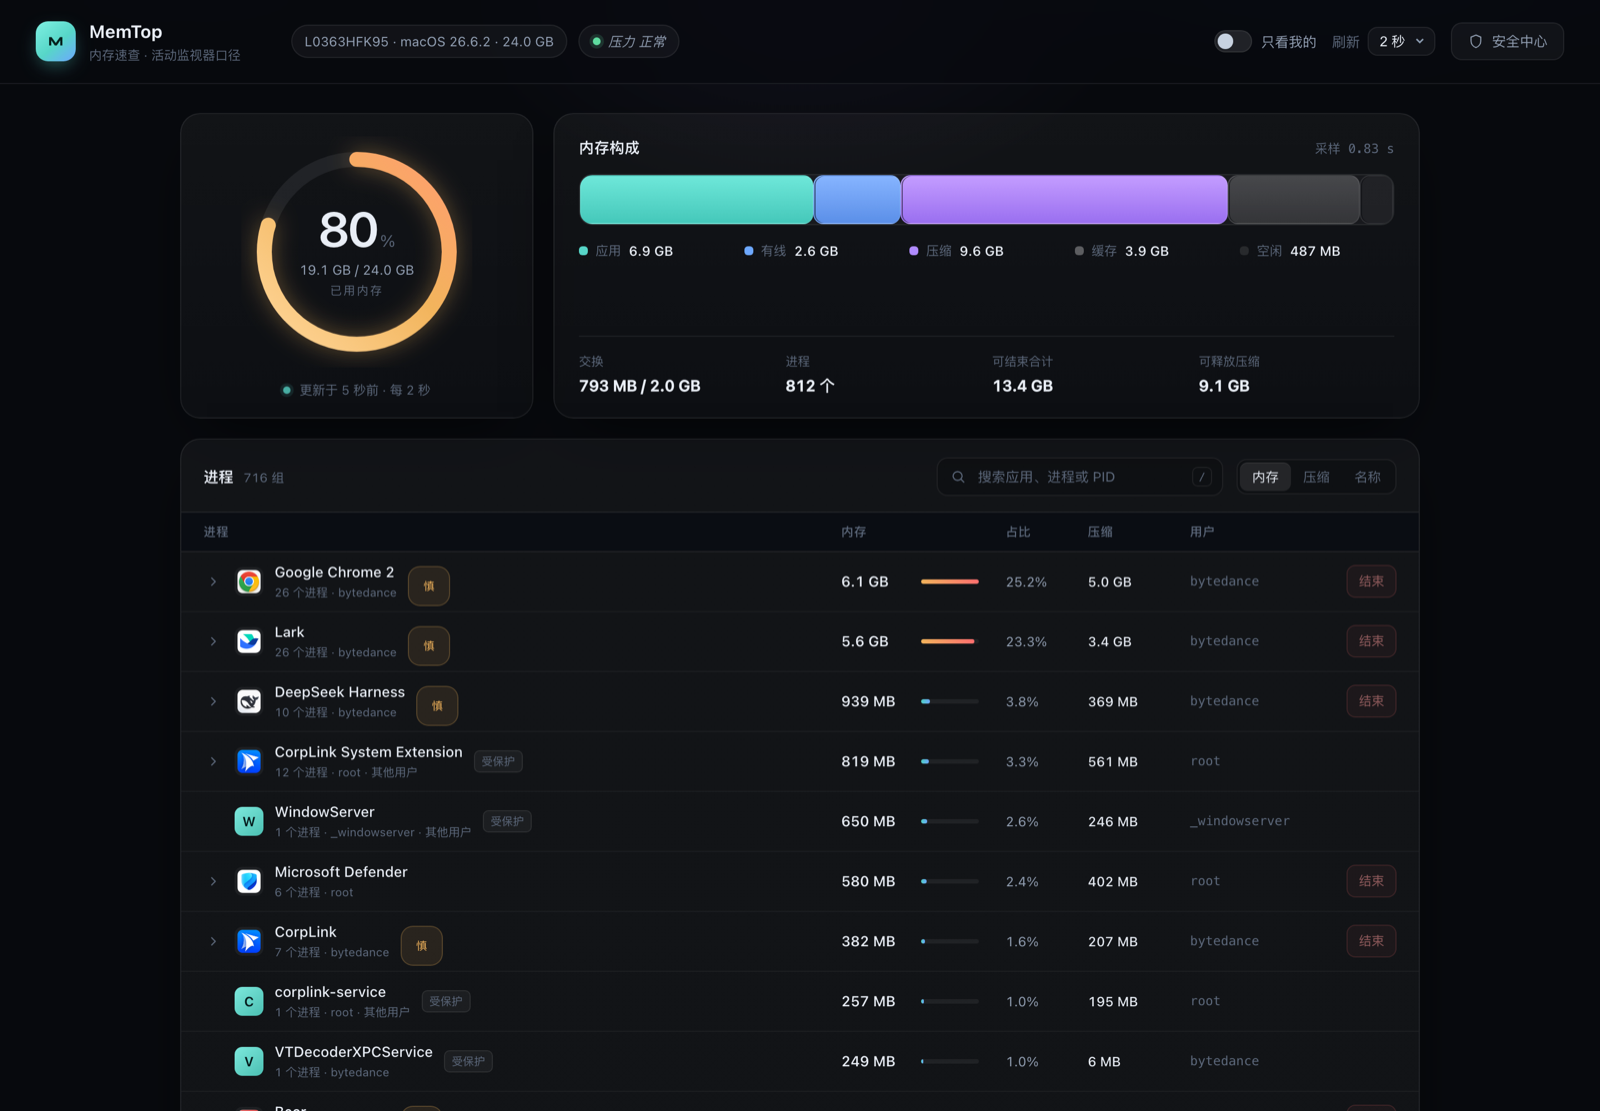
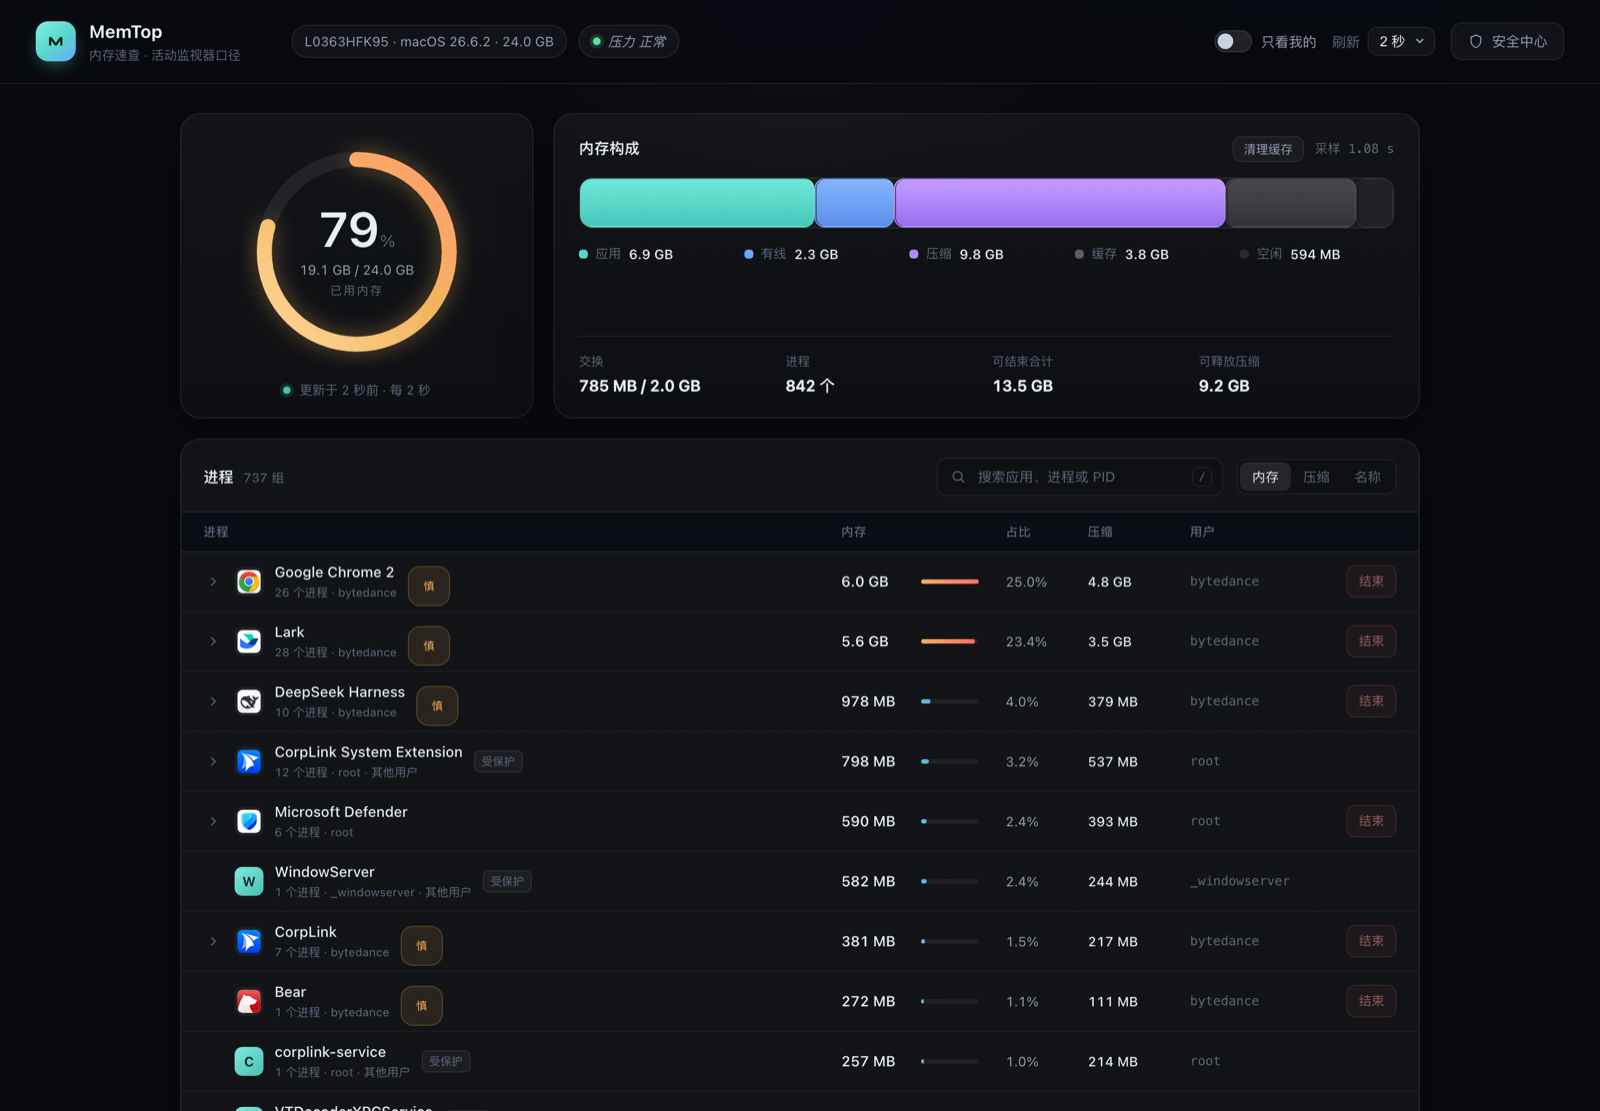
feat: 文件缓存清理（Web / 菜单栏 / CLI），系统 purge 授权后释放
明确区分缓存与压缩内存；Web 与菜单栏提供确认弹窗和前后对比，30 秒内防重复。

diff --git a/memtop-bar/main.swift b/memtop-bar/main.swift
@@ -339,7 +339,12 @@ final class PanelController: NSViewController {
         brand.spacing = 7
         brand.alignment = .centerY
 
-        let header = NSStackView(views: [brand, headerSpacer, pressure])
+        let purgeButton = MTButton("清缓存", size: 9.5, tint: MT.faint) { [weak self] in
+            self?.confirmPurge()
+        }
+        purgeButton.toolTip = "丢弃文件缓存（需要管理员授权，不影响压缩内存）"
+
+        let header = NSStackView(views: [brand, headerSpacer, purgeButton, pressure])
         header.orientation = .horizontal
         header.alignment = .centerY
         header.translatesAutoresizingMaskIntoConstraints = false
@@ -851,6 +856,38 @@ final class PanelController: NSViewController {
         }
     }
 
+    func confirmPurge() {
+        let cached = snapshot?.memory.cached ?? 0
+        alert("清理文件缓存？",
+              "当前文件缓存 \(MT.size(cached))。会调用系统 purge 丢弃文件缓存——不是压缩内存；需要管理员授权，不会结束应用，但短时间内读盘会变慢。",
+              style: .warning, confirm: "清理", destructive: false) { [weak self] in
+            self?.runPurge()
+        }
+    }
+
+    private func runPurge() {
+        let path = memtopPath
+        let before = snapshot?.memory.cached ?? 0
+        DispatchQueue.global(qos: .userInitiated).async { [weak self] in
+            let outcome = MemTopBar.runPurge()
+            let after = MemTopBar.cachedBytes(path) ?? before
+            DispatchQueue.main.async {
+                guard let self = self else { return }
+                switch outcome {
+                case .success:
+                    self.refresh(force: true)
+                    self.alert("已清理文件缓存",
+                               "缓存 \(MT.size(before)) → \(MT.size(after))，释放 ≈ \(MT.size(max(0, before - after)))。",
+                               style: .informational)
+                case .canceled:
+                    self.alert("已取消", "没有获得管理员授权，缓存未清理。", style: .informational)
+                case .failure(let msg):
+                    self.alert("清理失败", msg, style: .critical)
+                }
+            }
+        }
+    }
+
     private func toggleSortMode() {
         sortByCompressed.toggle()
         sortButton.setTitle(sortByCompressed ? "按内存" : "按压缩", tint: sortByCompressed ? MT.teal : MT.dim)
@@ -1175,6 +1212,7 @@ final class AppDelegate: NSObject, NSApplicationDelegate {
             let menu = NSMenu()
             menu.addItem(withTitle: "打开面板", action: #selector(openPanel), keyEquivalent: "").target = self
             menu.addItem(withTitle: "刷新", action: #selector(forceRefresh), keyEquivalent: "r").target = self
+            menu.addItem(withTitle: "清理文件缓存…", action: #selector(purgeCache), keyEquivalent: "").target = self
             menu.addItem(.separator())
             menu.addItem(withTitle: "退出 MemTopBar", action: #selector(quit), keyEquivalent: "q").target = self
             statusItem.menu = menu
@@ -1198,6 +1236,8 @@ final class AppDelegate: NSObject, NSApplicationDelegate {
     }
 
     @objc private func forceRefresh() { controller.refresh(force: true) }
+
+    @objc private func purgeCache() { controller.confirmPurge() }
 
     @objc private func quit() { NSApp.terminate(nil) }
 
@@ -1261,6 +1301,37 @@ enum MemTopBar {
         } catch {
             return .failure(MTFailure(message: "解析快照失败：\(error.localizedDescription)"))
         }
+    }
+
+    enum PurgeOutcome {
+        case success
+        case canceled
+        case failure(String)
+    }
+
+    static func runPurge() -> PurgeOutcome {
+        let p = Process()
+        p.executableURL = URL(fileURLWithPath: "/usr/bin/osascript")
+        p.arguments = ["-e", "do shell script \"/usr/sbin/purge\" with administrator privileges"]
+        let err = Pipe()
+        p.standardError = err
+        p.standardOutput = Pipe()
+        do {
+            try p.run()
+        } catch {
+            return .failure("无法启动 osascript：\(error.localizedDescription)")
+        }
+        let errData = err.fileHandleForReading.readDataToEndOfFile()
+        p.waitUntilExit()
+        if p.terminationStatus == 0 { return .success }
+        let msg = String(data: errData, encoding: .utf8) ?? ""
+        if msg.contains("-128") || msg.lowercased().contains("cancel") { return .canceled }
+        return .failure(msg.isEmpty ? "purge 退出码 \(p.terminationStatus)" : msg)
+    }
+
+    static func cachedBytes(_ path: String) -> Int? {
+        if case .success(let snap) = runJSON(path) { return snap.memory.cached }
+        return nil
     }
 
     enum KillOutcome {

diff --git a/memtop/web/app.js b/memtop/web/app.js
@@ -333,6 +333,35 @@
     }, 30);
   }
 
+  function openPurge() {
+    const cached = (state.snap && state.snap.memory.cached) || 0;
+    $("#purgeSub").textContent = "当前文件缓存 " + fmtSize(cached);
+    $("#purgeConfirm").disabled = false;
+    $("#purgeConfirm").textContent = "清理";
+    $("#purgeOverlay").hidden = false;
+  }
+
+  function closePurge() {
+    $("#purgeOverlay").hidden = true;
+  }
+
+  async function doPurge() {
+    const btn = $("#purgeConfirm");
+    if (btn.disabled) return;
+    btn.disabled = true;
+    btn.textContent = "等待授权…";
+    try {
+      const data = await post("/api/purge", { confirm: true });
+      closePurge();
+      toast("已清理 " + fmtSize(data.freed) + "（" + fmtSize(data.before) + " → " + fmtSize(data.after) + "）");
+      await load();
+    } catch (e) {
+      closePurge();
+      if (e.data && e.data.canceled) toast("已取消授权", "warn");
+      else toast("清理失败：" + e.message, "err");
+    }
+  }
+
   function closeKill() {
     $("#killOverlay").hidden = true;
     pending = null;
@@ -600,6 +629,13 @@
       }
     });
 
+    $("#btnPurge").addEventListener("click", openPurge);
+    $("#purgeCancel").addEventListener("click", closePurge);
+    $("#purgeConfirm").addEventListener("click", doPurge);
+    $("#purgeOverlay").addEventListener("click", (e) => {
+      if (e.target.id === "purgeOverlay") closePurge();
+    });
+
     $("#killCancel").addEventListener("click", closeKill);
     $("#killConfirm").addEventListener("click", doKill);
     $("#killOverlay").addEventListener("click", (e) => {
@@ -651,6 +687,7 @@
     document.addEventListener("keydown", (e) => {
       const typing = /^(INPUT|SELECT|TEXTAREA)$/.test(document.activeElement.tagName);
       if (e.key === "Escape") {
+        if (!$("#purgeOverlay").hidden) return closePurge();
         if (!$("#killOverlay").hidden) return closeKill();
         if (!$("#safetyOverlay").hidden) return void ($("#safetyOverlay").hidden = true);
         if (typing) return void document.activeElement.blur();
@@ -716,6 +753,7 @@
         openKill(g.members, { label: g.name, groupKey: g.key, protectName: g.name });
       }
       if (demo === "safety") { openSafety("protect"); }
+      if (demo === "purge") { openPurge(); }
     }
   }
 

diff --git a/memtop/web/index.html b/memtop/web/index.html
@@ -84,7 +84,10 @@
     <article class="card breakdown-card">
       <div class="card-head">
         <h2>内存构成</h2>
-        <span class="hint" id="sampleMeta"></span>
+        <div class="card-head-right">
+          <button class="btn ghost tiny" id="btnPurge" title="丢弃文件缓存（需要管理员授权）">清理缓存</button>
+          <span class="hint" id="sampleMeta"></span>
+        </div>
       </div>
       <div class="stack" id="stack" aria-hidden="true"></div>
       <ul class="legend" id="legend"></ul>
@@ -184,6 +187,28 @@
       <span class="spacer"></span>
       <button class="btn ghost" id="killCancel">取消</button>
       <button class="btn danger" id="killConfirm">结束进程</button>
+    </div>
+  </div>
+</div>
+
+<!-- 清理文件缓存 -->
+<div class="overlay" id="purgeOverlay" hidden>
+  <div class="modal" role="dialog" aria-modal="true" aria-labelledby="purgeTitle">
+    <div class="modal-head">
+      <h3 id="purgeTitle">清理文件缓存？</h3>
+      <p id="purgeSub">—</p>
+    </div>
+    <div class="modal-body">
+      <div class="warn">
+        <strong>需要管理员授权</strong>
+        <p>会调用系统 <code>purge</code> 丢弃文件缓存——它清理的是可回收的磁盘缓存，<b>不是压缩内存</b>。
+           不会结束任何应用，但清理后的短时间内读盘会变慢。</p>
+      </div>
+    </div>
+    <div class="modal-foot">
+      <span class="spacer"></span>
+      <button class="btn ghost" id="purgeCancel">取消</button>
+      <button class="btn primary" id="purgeConfirm">清理</button>
     </div>
   </div>
 </div>

diff --git a/memtop/web/style.css b/memtop/web/style.css
@@ -297,6 +297,8 @@ body {
 .card-head { display: flex; align-items: baseline; justify-content: space-between; gap: 12px; }
 .card-head h2 { margin: 0; font-size: 13.5px; font-weight: 600; letter-spacing: 0.2px; }
 .hint { font-size: 11.5px; color: var(--faint); font-family: var(--mono); }
+.card-head-right { display: flex; align-items: center; gap: 10px; }
+.btn.tiny { padding: 3px 9px; font-size: 11px; border-radius: 7px; }
 
 .stack {
   display: flex;

diff --git a/memtop/memtop.py b/memtop/memtop.py
@@ -47,7 +47,7 @@ from http.server import BaseHTTPRequestHandler, ThreadingHTTPServer
 from dataclasses import dataclass, field
 from typing import Dict, List, Optional, Sequence, Set, Tuple
 
-VERSION = "1.2.0"
+VERSION = "1.3.0"
 HOME = os.path.expanduser("~")
 CONFIG_DIR = os.path.join(HOME, ".config", "memtop")
 PROTECT_FILE = os.path.join(CONFIG_DIR, "protect.txt")
@@ -1474,6 +1474,21 @@ def cmd_protect(args) -> int:
     return 1
 
 
+def cmd_purge(args) -> int:
+    snap = sample(True)
+    before = snap.mem.cached
+    print("当前文件缓存 ≈ %s，清理需要管理员授权…" % human(before))
+    code, out, err = system_purge()
+    if code != 0:
+        canceled = "cancel" in err.lower() or "-128" in err
+        print("已取消授权" if canceled else ("清理失败：%s" % (err or "purge 退出码 %d" % code)),
+              file=sys.stderr)
+        return 2 if canceled else 1
+    after = sample(True).mem.cached
+    print("缓存 %s → %s，释放 ≈ %s" % (human(before), human(after), human(max(0, before - after))))
+    return 0
+
+
 def cmd_pressure(args) -> int:
     snap = sample(True)
     mem = snap.mem
@@ -1524,6 +1539,19 @@ def _machine_info() -> dict:
         "arch": platform.machine(),
         "host": (platform.node() or "").split(".")[0],
     }
+
+
+def system_purge(timeout: float = 120.0) -> Tuple[int, str, str]:
+    """调用系统 purge 丢弃文件缓存；会弹出管理员授权框。"""
+    script = 'do shell script "/usr/sbin/purge" with administrator privileges'
+    try:
+        p = subprocess.run(["/usr/bin/osascript", "-e", script],
+                           capture_output=True, text=True, timeout=timeout)
+        return p.returncode, (p.stdout or "").strip(), (p.stderr or "").strip()
+    except subprocess.TimeoutExpired:
+        return -1, "", "授权或执行超时"
+    except OSError as e:
+        return -1, "", str(e)
 
 
 def group_json(g: Group) -> dict:
@@ -1634,6 +1662,7 @@ class WebState:
         self._snap: Optional[Snapshot] = None
         self._error: Optional[str] = None
         self._gen = 0
+        self._last_purge = 0.0
         self._stop = threading.Event()
         self._thread: Optional[threading.Thread] = None
 
@@ -1831,6 +1860,8 @@ def make_handler(state: WebState, web_dir: str):
                 return self._api_kill(body)
             if path == "/api/protect":
                 return self._api_protect(body)
+            if path == "/api/purge":
+                return self._api_purge(body)
             return self._deny(404, "未找到")
 
         def _api_kill(self, body: dict) -> None:
@@ -1892,6 +1923,34 @@ def make_handler(state: WebState, web_dir: str):
             self._json(200, {
                 "ok": True, "result": result, "refused": refused, "missing": missing,
                 "dry_run": dry_run,
+            })
+
+        def _api_purge(self, body: dict) -> None:
+            if not body.get("confirm"):
+                return self._json(400, {"ok": False, "error": "需要 confirm=true"})
+            now = time.time()
+            if now - state._last_purge < 30:
+                return self._json(429, {"ok": False, "error": "刚清理过，请 30 秒后再试"})
+
+            snap = state.get()
+            before = snap.mem.cached if snap else 0
+            code, out, err = system_purge()
+            if code != 0:
+                canceled = "cancel" in err.lower() or "-128" in err
+                return self._json(409 if canceled else 500, {
+                    "ok": False,
+                    "canceled": canceled,
+                    "error": "已取消授权" if canceled else (err or "purge 执行失败"),
+                })
+
+            state._last_purge = time.time()
+            state.sample_once()
+            after_snap = state.get()
+            after = after_snap.mem.cached if after_snap else 0
+            freed = max(0, before - after)
+            self._json(200, {
+                "ok": True, "before": before, "after": after, "freed": freed,
+                "message": "已清理 ≈ %s" % human(freed),
             })
 
         def _api_protect(self, body: dict) -> None:
@@ -1972,6 +2031,7 @@ def build_parser() -> argparse.ArgumentParser:
   memtop kill @Chrome --dry-run   预览结束整个 Chrome 组
   memtop kill @Chrome --yes --force  确认后强杀
   memtop protect add "Google Chrome"  永久保护
+  memtop purge                清理文件缓存（会请求管理员授权）
   memtop web                  浏览器仪表盘（127.0.0.1，自动打开）
   memtop web --port 9000 --no-open
 """)
@@ -2002,6 +2062,8 @@ def build_parser() -> argparse.ArgumentParser:
 
     sub.add_parser("pressure", help="内存概况")
 
+    sub.add_parser("purge", help="清理文件缓存（需要管理员授权）")
+
     w = sub.add_parser("web", help="启动本地 Web 仪表盘")
     w.add_argument("--port", type=int, default=8787, help="监听端口（默认 8787，0 为随机）")
     w.add_argument("--no-open", action="store_true", help="不自动打开浏览器")
@@ -2024,6 +2086,8 @@ def main(argv: Optional[List[str]] = None) -> int:
         return cmd_protect(args)
     if args.cmd == "pressure":
         return cmd_pressure(args)
+    if args.cmd == "purge":
+        return cmd_purge(args)
     if args.cmd == "web":
         return cmd_web(args)
 

diff --git a/memtop-bar/README.md b/memtop-bar/README.md
@@ -40,9 +40,13 @@ App 启动时会按下面的顺序找它：
 | 底部「结束选中」 | 立即批量结束已勾选的进程 |
 | 底部「清空」 | 清空勾选 |
 | 子进程行尾 `✕` | 只结束这一个进程（单次确认） |
-| 右键菜单栏图标 | 打开面板 / 刷新 / 退出 |
+| 顶部「清缓存」/ 右键菜单 | 清理文件缓存（调用系统 purge，需管理员授权） |
+| 右键菜单栏图标 | 打开面板 / 刷新 / 清理文件缓存… / 退出 |
 | 底部「仪表盘」 | 拉起 `memtop web` 并打开浏览器 |
 | 底部「按压缩 / 按内存」 | 切换排序；页脚同时显示「压缩可释放」 |
+
+「清缓存」清理的是文件缓存（file-backed pages），通过系统 `purge` 丢弃，需要管理员授权；
+它不影响压缩内存，也不会结束应用，但清理后短时间读盘会变慢。
 
 压缩内存无法从用户态直接释放，页脚的「压缩可释放」是可结束进程当前占用的压缩页；
 点「按压缩」按压缩占用排序，行内数值也会切成压缩值，结束后回收。

diff --git a/CHANGELOG.md b/CHANGELOG.md
@@ -1,5 +1,11 @@
 # Changelog
 
+## v1.3.0 — 2026-11-23
+
+- 新增文件缓存清理：Web「清理缓存」、菜单栏「清缓存」、`memtop purge`
+- 通过系统 `purge` 丢弃 file-backed 缓存，需要管理员授权；30 秒内防重复
+- 明确区分「缓存清理」与「压缩内存」：前者可主动释放，后者只能靠结束进程回收
+
 ## v1.2.0 — 2026-11-23
 
 - 新增「可释放压缩」指标：可结束进程当前占用的压缩页合计
